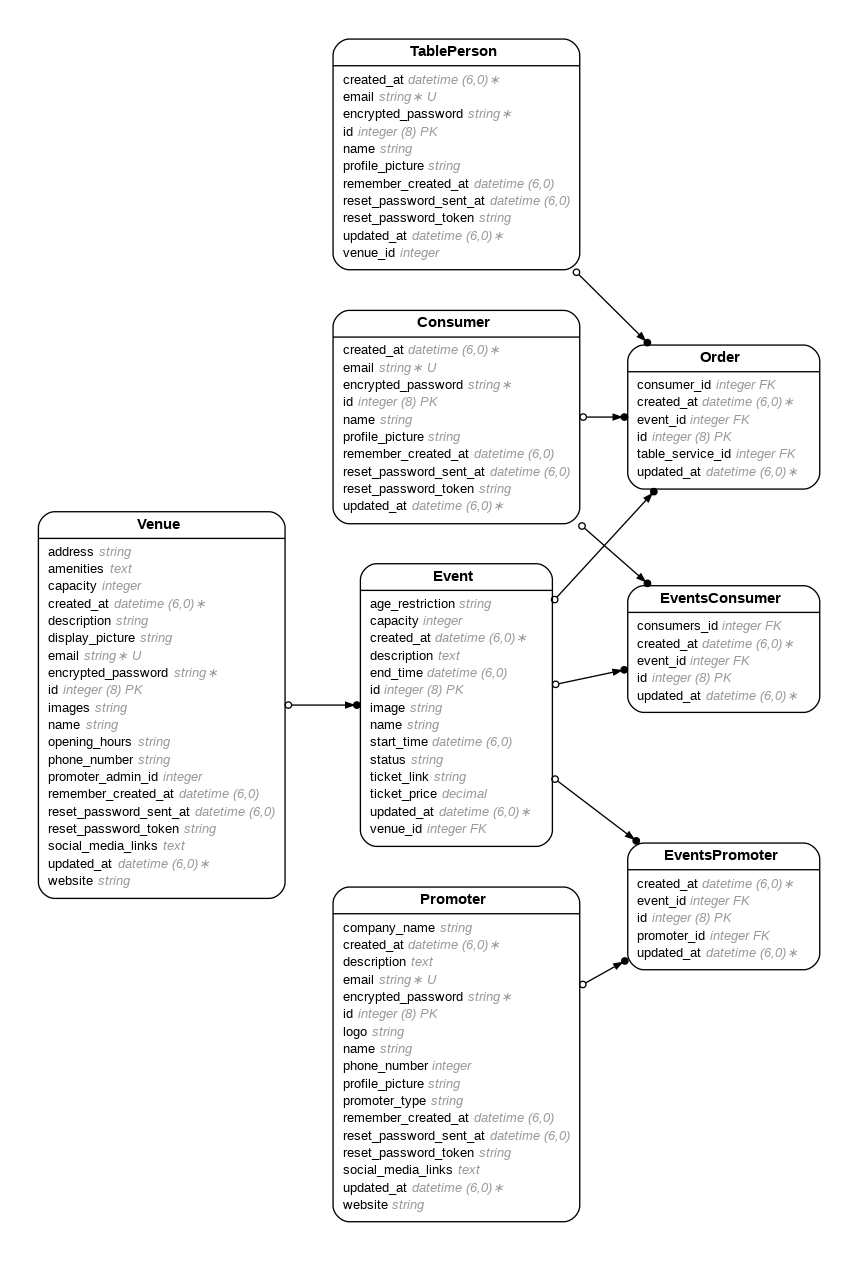
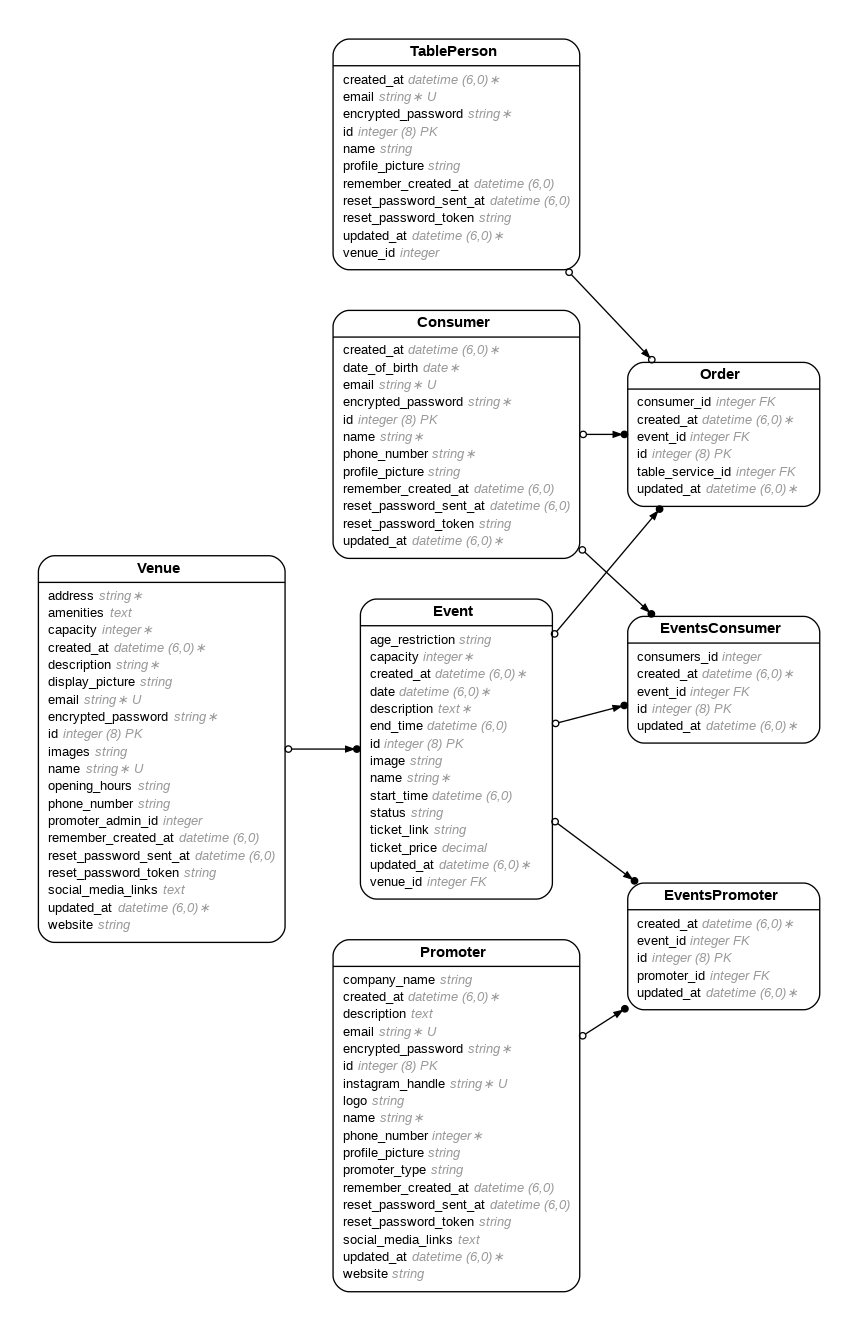
changes

diff --git a/db/schema.rb b/db/schema.rb
@@ -10,7 +10,7 @@
 #
 # It's strongly recommended that you check this file into your version control system.
 
-ActiveRecord::Schema[7.1].define(version: 2024_12_14_181246) do
+ActiveRecord::Schema[7.1].define(version: 2024_12_14_183034) do
   # These are extensions that must be enabled in order to support this database
   enable_extension "plpgsql"
 
@@ -24,6 +24,8 @@ ActiveRecord::Schema[7.1].define(version: 2024_12_14_181246) do
     t.string "profile_picture"
     t.datetime "created_at", null: false
     t.datetime "updated_at", null: false
+    t.string "phone_number"
+    t.date "date_of_birth"
     t.index ["email"], name: "index_consumers_on_email", unique: true
     t.index ["reset_password_token"], name: "index_consumers_on_reset_password_token", unique: true
   end
@@ -42,6 +44,7 @@ ActiveRecord::Schema[7.1].define(version: 2024_12_14_181246) do
     t.string "image"
     t.string "status"
     t.integer "capacity"
+    t.datetime "date"
   end
 
   create_table "events_consumers", force: :cascade do |t|
@@ -83,6 +86,7 @@ ActiveRecord::Schema[7.1].define(version: 2024_12_14_181246) do
     t.text "description"
     t.text "social_media_links"
     t.string "logo"
+    t.string "instagram_handle"
     t.index ["email"], name: "index_promoters_on_email", unique: true
     t.index ["reset_password_token"], name: "index_promoters_on_reset_password_token", unique: true
   end

diff --git a/app/models/consumer.rb b/app/models/consumer.rb
@@ -3,9 +3,11 @@
 # Table name: consumers
 #
 #  id                     :bigint           not null, primary key
+#  date_of_birth          :date
 #  email                  :string           default(""), not null
 #  encrypted_password     :string           default(""), not null
 #  name                   :string
+#  phone_number           :string
 #  profile_picture        :string
 #  remember_created_at    :datetime
 #  reset_password_sent_at :datetime

diff --git a/app/models/promoter.rb b/app/models/promoter.rb
@@ -7,6 +7,7 @@
 #  description            :text
 #  email                  :string           default(""), not null
 #  encrypted_password     :string           default(""), not null
+#  instagram_handle       :string
 #  logo                   :string
 #  name                   :string
 #  phone_number           :integer

diff --git a/app/models/event.rb b/app/models/event.rb
@@ -5,6 +5,7 @@
 #  id              :bigint           not null, primary key
 #  age_restriction :string
 #  capacity        :integer
+#  date            :datetime
 #  description     :text
 #  end_time        :datetime
 #  image           :string

diff --git a/db/migrate/20241214174858_create_events_consumers.rb b/db/migrate/20241214174858_create_events_consumers.rb
@@ -1,7 +1,7 @@
 class CreateEventsConsumers < ActiveRecord::Migration[7.1]
   def change
     create_table :events_consumers do |t|
-      t.integer :consumers_id
+      t.integer :consumer_id
       t.integer :event_id
 
       t.timestamps

diff --git a/db/migrate/20241214182741_add_instagram_handle_to_promoters.rb b/db/migrate/20241214182741_add_instagram_handle_to_promoters.rb
@@ -1,0 +1,5 @@
+class AddInstagramHandleToPromoters < ActiveRecord::Migration[7.1]
+  def change
+    add_column :promoters, :instagram_handle, :string
+  end
+end

diff --git a/db/migrate/20241214182821_add_phone_number_to_consumers.rb b/db/migrate/20241214182821_add_phone_number_to_consumers.rb
@@ -1,0 +1,5 @@
+class AddPhoneNumberToConsumers < ActiveRecord::Migration[7.1]
+  def change
+    add_column :consumers, :phone_number, :string
+  end
+end

diff --git a/db/migrate/20241214182859_add_date_of_birth_to_consumers.rb b/db/migrate/20241214182859_add_date_of_birth_to_consumers.rb
@@ -1,0 +1,5 @@
+class AddDateOfBirthToConsumers < ActiveRecord::Migration[7.1]
+  def change
+    add_column :consumers, :date_of_birth, :date
+  end
+end

diff --git a/db/migrate/20241214182932_add_date_to_events.rb b/db/migrate/20241214182932_add_date_to_events.rb
@@ -1,0 +1,5 @@
+class AddDateToEvents < ActiveRecord::Migration[7.1]
+  def change
+    add_column :events, :date, :datetime
+  end
+end
